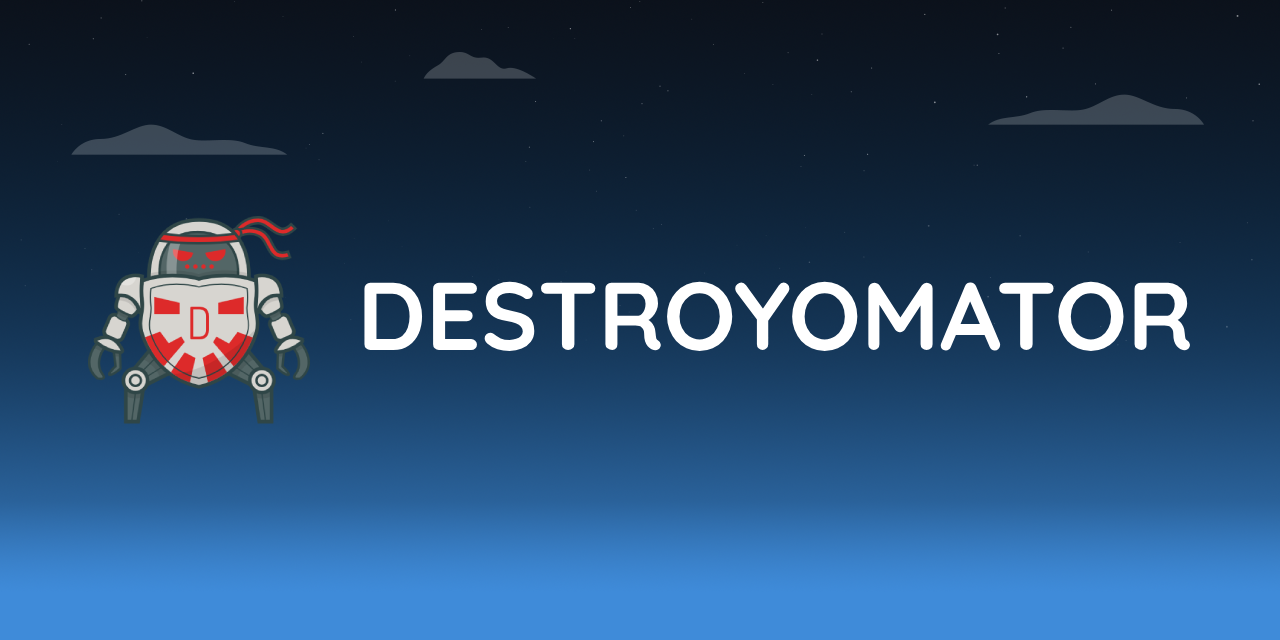
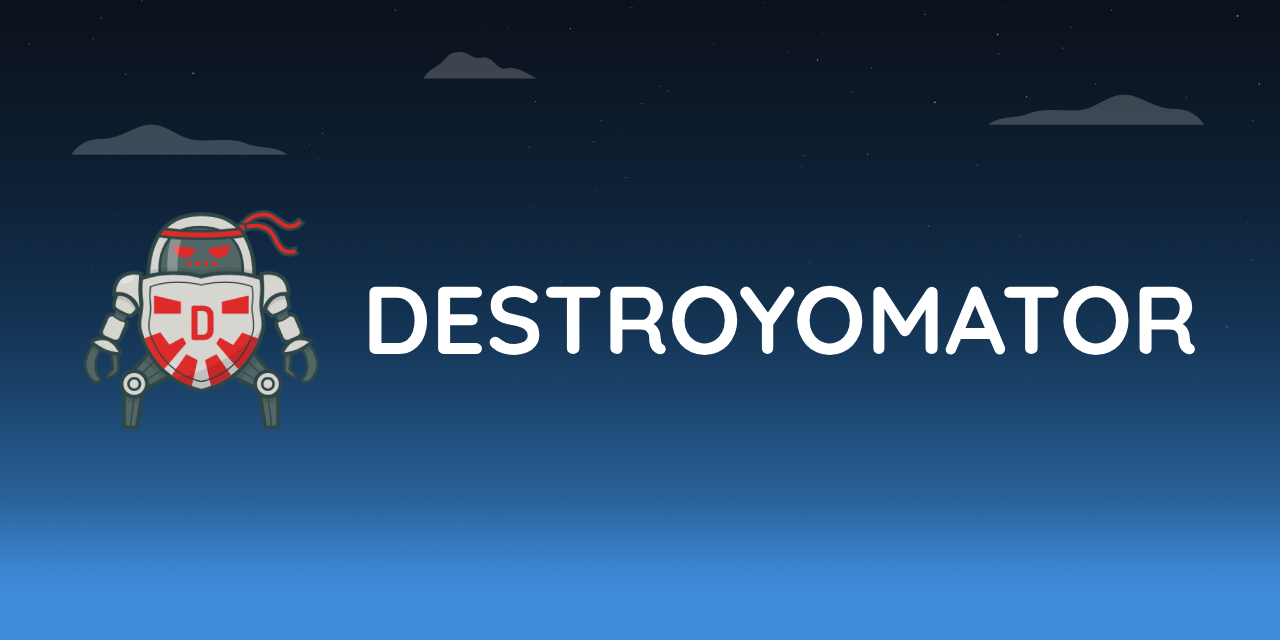
Use vector graphics

Changed region(s): [[0.2812, 0.4375, 0.9375, 0.5625], [0.0625, 0.3125, 0.25, 0.6875], [0.0938, 0.6562, 0.125, 0.6875]]

diff --git a/src/App.vue b/src/App.vue
@@ -1,6 +1,6 @@
 <script setup lang="ts">
-import { ref } from 'vue'
-import { Dialog, DialogPanel, DialogTitle, TransitionChild, TransitionRoot } from '@headlessui/vue'
+import { Dialog, DialogPanel, DialogTitle, TransitionChild, TransitionRoot } from '@headlessui/vue';
+import { ref } from 'vue';
 
 const dragging = ref(false);
 const deleting = ref(false);
@@ -25,7 +25,7 @@ function handleDrop(event: DragEvent) {
     <!-- Header -->
     <header class="relative px-6 lg:px-8">
       <div class="mx-auto max-w-2xl py-12 lg:py-24 text-center">
-          <img src="/logo.png" alt="Destroyomator Logo" class="mx-auto" />
+          <img src="/logo.svg" alt="Destroyomator Logo" class="mx-auto size-40" />
           <h1 class="text-4xl font-semibold tracking-tight text-balance text-gray-900 sm:text-7xl">DESTROYOMATOR</h1>
           <p class="mt-8 text-lg font-medium text-pretty text-gray-500 sm:text-xl/8">Securely destroy sensitive data</p>
         </div>
